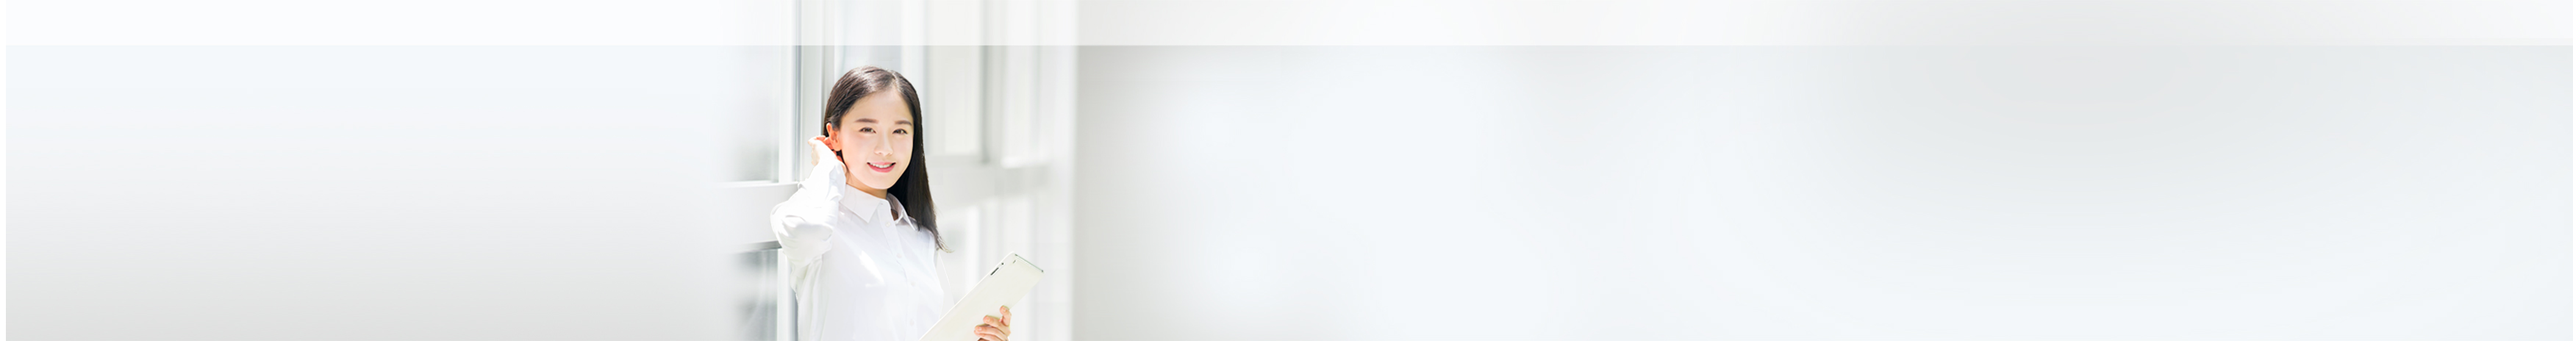
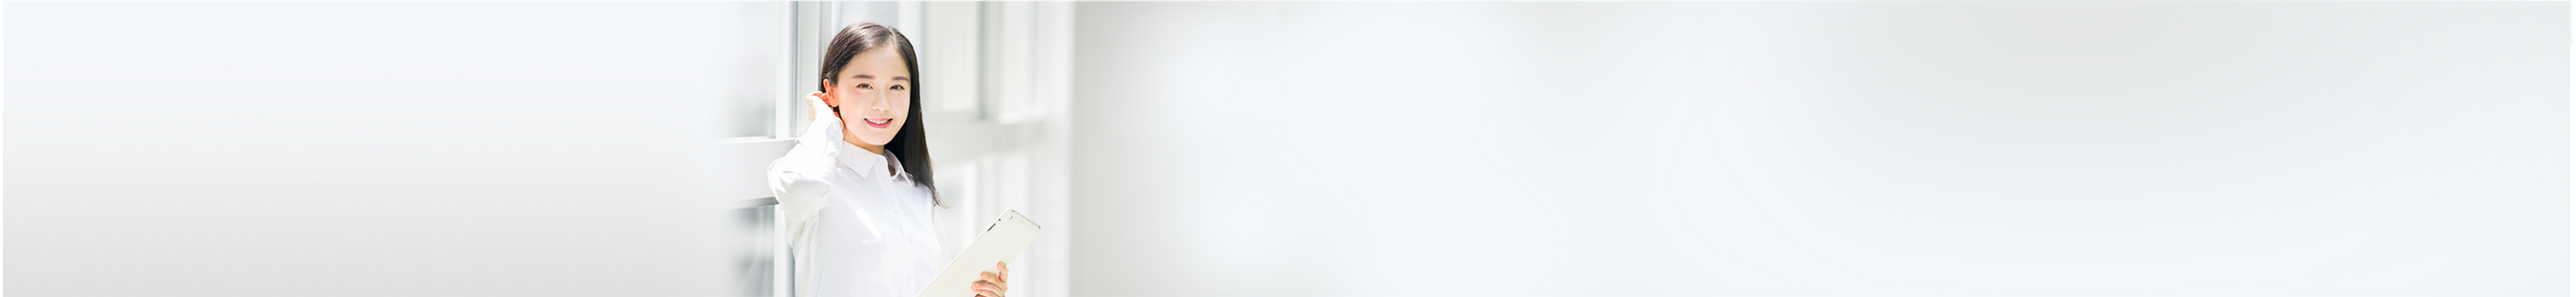
인덱스 하고 있습니다

Changed region(s): [[0.2803, 0.0, 0.436, 0.802], [0.2803, 0.8614, 0.3114, 1.0], [0.3737, 0.8911, 0.4049, 1.0]]

diff --git a/src/main/webapp/resources/css/basic.css b/src/main/webapp/resources/css/basic.css
@@ -112,14 +112,43 @@ header{
 /******************************* 바디 시작 **********************************/
 body{
 	background-color: #f2f2f2;
-	
 }
 .advertising{
-	width: 1152px;
 	height: 480px;
-	background-color: green;
 	margin: 0 auto;
-	
+}
+.invitation-text-md {
+    padding-top: 70px;
+    font-size: 20px;
+    color: #454545;
+    line-height: 22px;
+    margin-bottom: 0 !important;
+    text-align: center;
+    margin: 0 0 10px;
+}
+.invitation-heading {
+    font-weight: bold;
+    font-size: 46px;
+    color: #454545 !important;
+    padding-top: 15px !important;
+    padding-bottom: 15px !important;
+    margin-top: 0 !important;
+    margin-bottom: 0 !important;
+    line-height: 45px;
+    text-align: center;
+}
+.invitation-text-sm {
+    border-top: 1px solid rgba(172,172,172,0.3);
+    border-top: 1px solid #dedede;
+    width: 594px;
+    margin-right: auto;
+    margin-left: auto;
+    font-size: 16px;
+    color: #454545;
+    padding: 20px 0 15px;
+    margin-bottom: 0;
+    line-height: 18px;
+    text-align: center;
 }
 .advertising_div{
 	width: 100%;
@@ -127,24 +156,61 @@ body{
 	background-color: #e1e1e1;
 }
 .project_quantity_div{
+	border-top: 1px solid rgba(172,172,172,0.3);
+    border-bottom: 1px solid #d4d5d6;
+    height: 92px;
+    background-color: #fff;
 	width: 100%;
-	height: 100px;
-	background-color: #a6a6a6;
+}
+.projectCount{
+	width: 1060px;
+    margin: 0 auto;
+    padding-top: 18px;
+    padding-bottom: 18px;
+    height: 92px;	
+}
+.projectCount div{
+	border-left: 1px solid rgba(136,136,136,0.2);
+}
+.projectCount div+div+div {
+    border-right: 1px solid rgba(136,136,136,0.2);
 }
 .project{
-	width: 1152px;
+
 	height: 480px;
-	background-color: #d9d9d9;
 	margin: 0 auto;
 }
 .project_div{
-	width: 1060px;
+	width : 1250px;
 	height: 100%;
-	background-color: white;
-	margin: 50px 46px 50px 46px;
-		
+	background-color: f2f2f2;
+	margin: 49px auto;
 }
-
+.status-box {
+	text-align: center;
+    float: left;
+    width: 352px;
+}
+.status-box p {
+    line-height: 18px;
+    font-size: 16px;
+    color: #2d3a45;
+    margin-bottom: 10px;
+}
+.status-box span {
+    line-height: 26px;
+    font-weight: bold;
+    font-size: 24px;
+    color: #2d3a45;
+    margin-bottom: 18px;
+}
+.status-box span+span {
+    padding-left: 8px;
+    line-height: 26px;
+    font-weight: bold;
+    font-size: 16px;
+    color: #2d3a45;
+}
 .freelancer{
 	width: 1152px;
 	height: 480px;

diff --git a/src/main/java/com/flu/home/HomeController.java b/src/main/java/com/flu/home/HomeController.java
@@ -1,9 +1,12 @@
 package com.flu.home;
 
 import java.text.DateFormat;
+import java.util.ArrayList;
 import java.util.Date;
+import java.util.List;
 import java.util.Locale;
 
+import javax.inject.Inject;
 import javax.servlet.http.HttpSession;
 
 import org.slf4j.Logger;
@@ -13,6 +16,13 @@ import org.springframework.ui.Model;
 import org.springframework.web.bind.annotation.RequestMapping;
 import org.springframework.web.bind.annotation.RequestMethod;
 
+import com.flu.applicant.ApplicantService;
+import com.flu.freelancer.FreelancerService;
+import com.flu.member.MemberService;
+import com.flu.project.ProjectDTO;
+import com.flu.project.ProjectService;
+import com.flu.util.ListInfo;
+
 /**
  * Handles requests for the application home page.
  */
@@ -21,28 +31,53 @@ public class HomeController {
 	
 	private static final Logger logger = LoggerFactory.getLogger(HomeController.class);
 	
-	/**
-	 * Simply selects the home view to render by returning its name.
-	 */
+	@Inject
+	private ProjectService projectService;
+	@Inject
+	private MemberService memberService;
+	@Inject
+	private ApplicantService applicantService;
+	@Inject
+	private FreelancerService freelancerService;
+	
+	private ProjectDTO projectDTO;
+	private ListInfo listInfo;
+	
 	@RequestMapping(value = "/", method = RequestMethod.GET)
-	public String home(Locale locale, Model model, HttpSession session) {
-		logger.info("Welcome home! The client locale is {}.", locale);
+	public String home(Model model, HttpSession session) throws Exception{
 		
-		Date date = new Date();
-		DateFormat dateFormat = DateFormat.getDateTimeInstance(DateFormat.LONG, DateFormat.LONG, locale);
+		//프로젝트
+		int pjcount = projectService.projectListcount(projectDTO);
+		int mcount = memberService.memberCountTotal();
+		int budget = projectService.totalBudget();
+		List<ProjectDTO> ar = projectService.indexProjectList();
+		List<ProjectDTO> ar2 = new ArrayList<ProjectDTO>();
+
+		//프리랜서
+		int fcount = freelancerService.totalcount(listInfo);
 		
 		
-		
-		String formattedDate = dateFormat.format(date);
-		
-		model.addAttribute("serverTime", formattedDate );
-		
-		if(session.getAttribute("member") == null){
-			return "index";
-		}else{
-			return "redirect:/member/myflu";
+		for(int i=0;i<6;i++){	
+			projectDTO = new ProjectDTO();
+			projectDTO.setSkills(ar.get(i).getSkill().split(","));
+			projectDTO.setProjectNum(ar.get(i).getProjectNum());
+			ar.get(i).setAppCount(applicantService.countApplicant(ar.get(i).getProjectNum()));
+			ar2.add(projectDTO);
+			
 		}
 		
+		
+	
+		model.addAttribute("pjcount", pjcount);
+		model.addAttribute("mcount", mcount);
+		model.addAttribute("budget", budget);
+		model.addAttribute("indexList", ar);
+		model.addAttribute("skills", ar2);
+		
+		
+		
+		return "index";
+
 	}
 	@RequestMapping(value="/home")
 	public String test(){

diff --git a/src/main/java/com/flu/controller/MeetRoomController.java b/src/main/java/com/flu/controller/MeetRoomController.java
@@ -84,7 +84,7 @@ public class MeetRoomController {
 	public String meetUpdate(MeetRoomDTO meetRoomDTO, MultipartHttpServletRequest request,HttpSession session) throws Exception{
 		//update 처리
 		FileSaver fileSaver = new FileSaver();
-		
+		System.out.println("미팅이이이이이이이루무우우웅"+meetRoomDTO.getNum());
 		MultipartFile multi=request.getFile("file");
 		String realPath = session.getServletContext().getRealPath("resources/upload");
 		meetRoomDTO.setFname(fileSaver.fileSave(realPath, multi));
@@ -133,6 +133,7 @@ public class MeetRoomController {
 		
 		MeetRoomDTO meetRoomDTO = (MeetRoomDTO) meetRoomServiceImpl.view(num);
 		String [] time = meetRoomDTO.getTime().split(",");
+		
 		model.addAttribute("dto", meetRoomDTO);
 		model.addAttribute("time", time);
 		

diff --git a/src/main/java/com/flu/project/ProjectDAO.java b/src/main/java/com/flu/project/ProjectDAO.java
@@ -193,4 +193,13 @@ public class ProjectDAO {
 		public int cancleProjectState(PjSellDTO pjSellDTO){
 			return sqlSession.update(NAMESPACE+"cancleProjectState", pjSellDTO);
 		}
+		
+		//index에 뿌려질 등록된 프로젝트 금액
+		public int totalBudget() throws Exception{
+			return sqlSession.selectOne(NAMESPACE+"totalBudget");
+		}
+		//index에 뿌려질 등록된 프로젝트 (금액 높은순으로 6개)
+		public List<ProjectDTO> indexProjectList() throws Exception{
+			return sqlSession.selectList(NAMESPACE+"indexProjectList");
+		}
 }

diff --git a/src/main/java/com/flu/controller/MemberController.java b/src/main/java/com/flu/controller/MemberController.java
@@ -260,7 +260,7 @@ public class MemberController {
 			MemberDTO memberDTO =  (MemberDTO)session.getAttribute("member");
 			System.out.println("마이페이지 이메일 : "+email);
 			if(memberDTO.getKind().equals("client")){
-				model.setView(new RedirectView("/flu/member/clientmypage?email="+email));
+				model.setView(new RedirectView("/flu/member/client/mypage?email="+email));
 				return model;
 			}else{
 				model.setView(new RedirectView("/flu/member/freelancermypage?email="+email));

diff --git a/src/main/java/com/flu/project/ProjectService.java b/src/main/java/com/flu/project/ProjectService.java
@@ -192,4 +192,12 @@ public class ProjectService {
 		return projectDAO.cancleProjectState(pjSellDTO);
 	}
 	
+	//index에 뿌려질 등록된 프로젝트 금액
+	public int totalBudget() throws Exception{
+		return projectDAO.totalBudget();
+	}
+	//index에 뿌려질 등록된 프로젝트리스트( 높은 금액순)
+	public List<ProjectDTO> indexProjectList () throws Exception{
+		return projectDAO.indexProjectList();
+	}
 }

diff --git a/src/main/java/com/flu/controller/ProjectController.java b/src/main/java/com/flu/controller/ProjectController.java
@@ -83,7 +83,7 @@ public class ProjectController {
       MemberDTO memberDTO = new MemberDTO();
       memberDTO= (MemberDTO)session.getAttribute("member");
       
-     int pjcount = projectService.projectListcount(projectDTO);
+      int pjcount = projectService.projectListcount(projectDTO);
      
      
       model.addAttribute("listInfo", listInfo);

diff --git a/src/main/java/com/flu/member/MemberService.java b/src/main/java/com/flu/member/MemberService.java
@@ -203,6 +203,9 @@ public class MemberService {
 	//myflu에 뿌려질 알람 리스트
 	public List<AlarmDTO> memberAlarmList(String email) throws Exception{
 		return memberDAO.memberAlarmList(email);
-
+	}
+	//index에 뿌려질 등록된 회원 카운트
+	public int memberCountTotal() throws Exception{
+		return memberDAO.memberCountTotal();
 	}
 }

diff --git a/src/main/java/com/flu/member/MemberDAO.java b/src/main/java/com/flu/member/MemberDAO.java
@@ -202,4 +202,8 @@ public class MemberDAO {
 		System.out.println("email"+email);
 		return sqlSession.selectList(NAMESPACE+"memberAlarmList", email);
 	}
+	//index에 뿌려질 등록된 회원 카운트
+	public int memberCountTotal() throws Exception{
+		return sqlSession.selectOne(NAMESPACE+"memberCountTotal");
+	}
 }

diff --git a/src/main/java/com/flu/applicant/ApplicantDAO.java b/src/main/java/com/flu/applicant/ApplicantDAO.java
@@ -46,7 +46,7 @@ public class ApplicantDAO {
 	//지원자 수 카운트하기
 	public int countApplicant(int projectNum){
 		System.out.println("countApplicant-dao");
-		
+		System.out.println(projectNum);
 		return sqlSession.selectOne(NAMESPACE+"countApplicant", projectNum);
 	}
 	

diff --git a/src/main/java/com/flu/controller/AlarmController.java b/src/main/java/com/flu/controller/AlarmController.java
@@ -16,7 +16,7 @@ import com.flu.alarm.AlarmService;
 import com.flu.member.MemberDTO;
 
 @Controller
-@RequestMapping(value="alarm/**")
+@RequestMapping(value="/alarm/**")
 public class AlarmController {
 	
 	@Autowired
